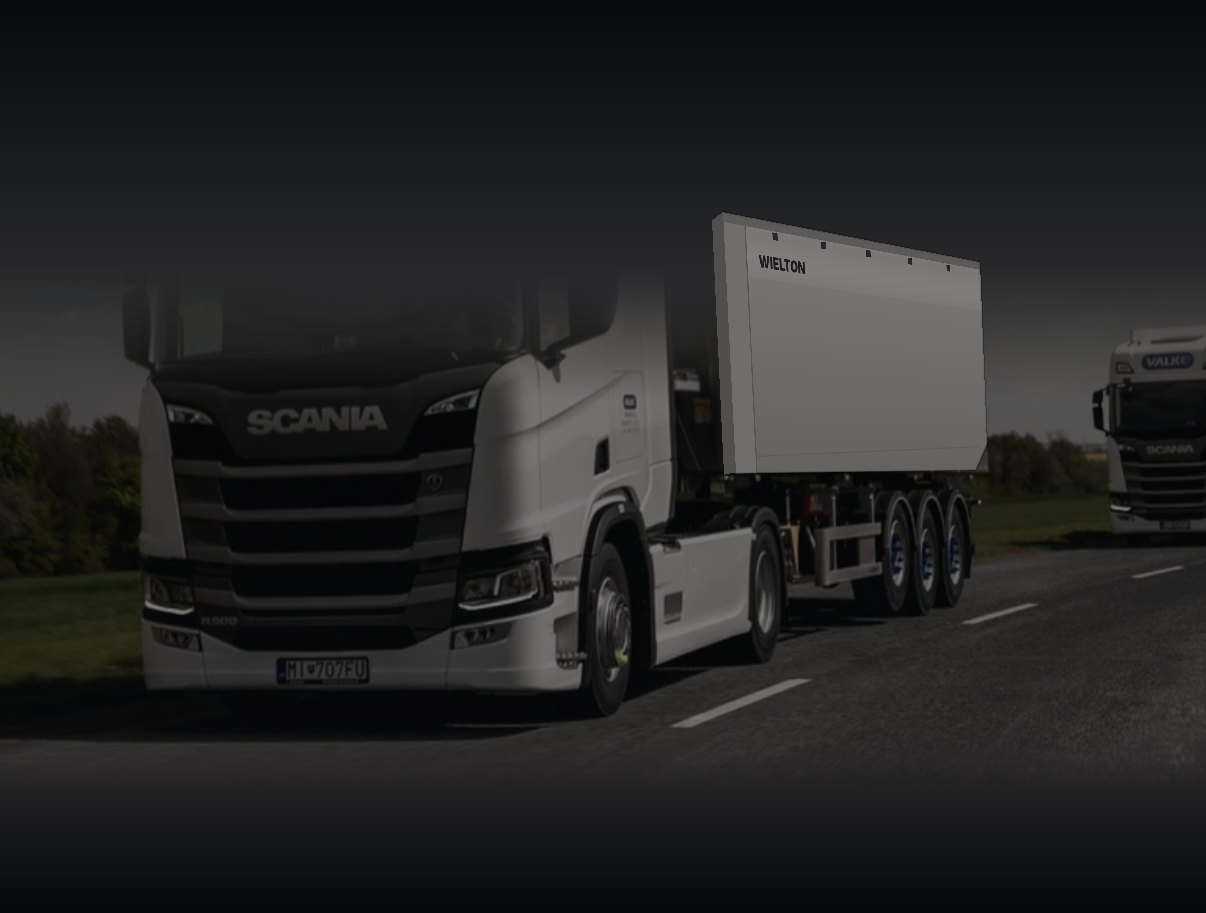
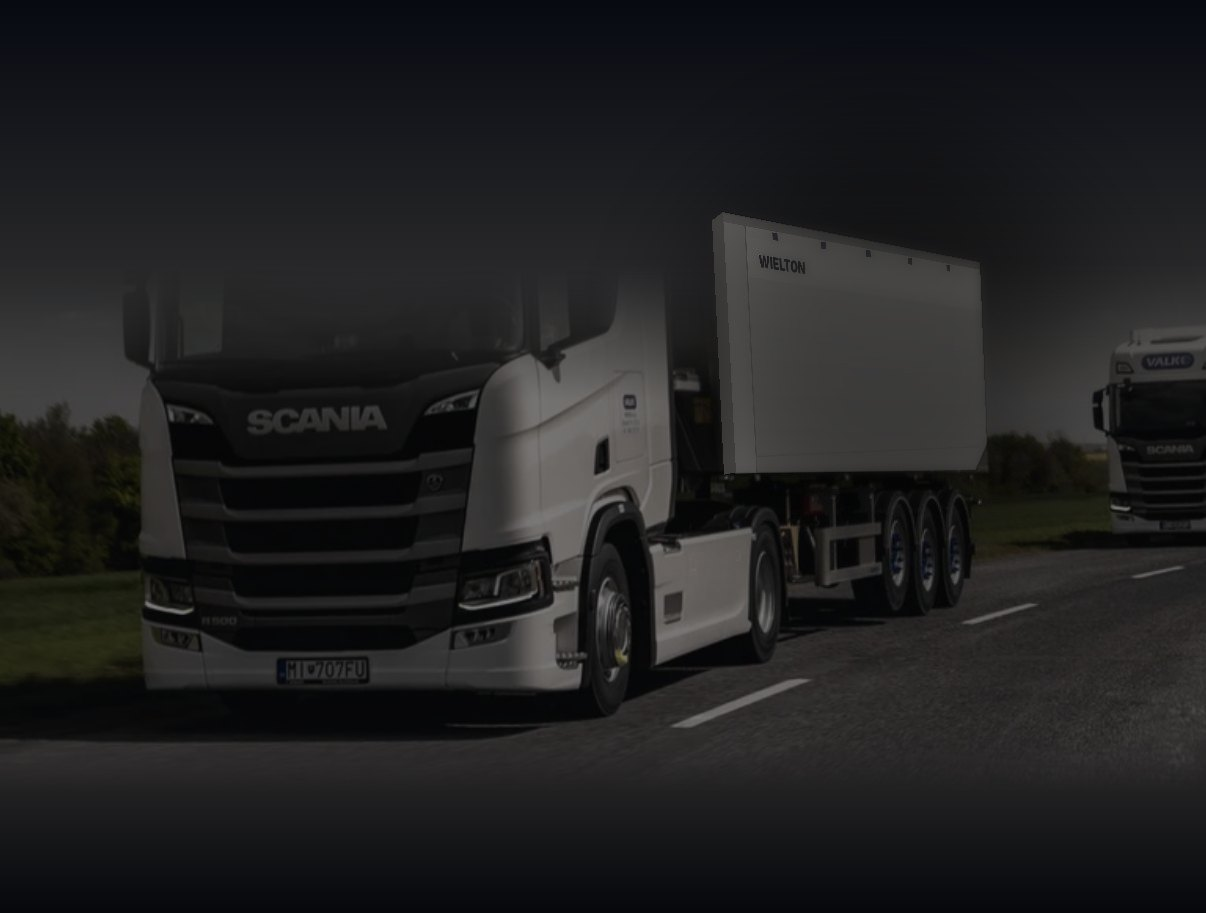
Úvod: dôraz na ťahače, náves potlačený
Claude-Session: https://claude.ai/code/session_01T1wT3WgQko2kKtKKfE1S8B

Changed region(s): [[0.5829, 0.2147, 0.8897, 0.5214]]

diff --git a/farmar/index.html b/farmar/index.html
@@ -197,7 +197,7 @@ details.trips{border-top:1px solid var(--line);padding-top:8px}details.trips sum
 .xdh{display:grid;grid-template-columns:44px 1fr;gap:12px;align-items:center}.xdn{display:grid;min-width:0}.xdn b{font:600 .98rem var(--f-head)}.xdn small{font-size:.76rem;color:var(--muted)}
 .live{display:inline-block;width:8px;height:8px;border-radius:50%;background:#b6ff3b;box-shadow:0 0 10px #b6ff3b;margin-right:6px;animation:pulse 1.6s infinite}@keyframes pulse{50%{opacity:.35}}
 .xset summary{list-style:none;cursor:pointer;display:flex;gap:10px;align-items:center}.xset summary::-webkit-details-marker{display:none}.xset summary span{width:36px;height:36px;border-radius:12px;display:grid;place-items:center;background:rgba(255,255,255,.07)}
-.vhero{position:relative;overflow:hidden;isolation:isolate;border-radius:30px;min-height:330px;display:grid;align-items:end;background:var(--bg) 58% 38%/cover no-repeat,#05070a;border:1px solid rgba(255,255,255,.14);box-shadow:0 30px 80px rgba(0,0,0,.6)}
+.vhero{position:relative;overflow:hidden;isolation:isolate;border-radius:30px;min-height:330px;display:grid;align-items:end;background:var(--bg) 24% 42%/cover no-repeat,#05070a;border:1px solid rgba(255,255,255,.14);box-shadow:0 30px 80px rgba(0,0,0,.6)}
 .vhero::before{content:"";position:absolute;inset:0;background:linear-gradient(180deg,rgba(5,7,10,.35) 0%,rgba(5,7,10,.05) 22%,rgba(5,7,10,.15) 45%,rgba(5,7,10,.78) 70%,rgba(5,7,10,.94) 100%),radial-gradient(80% 60% at 0% 100%,rgba(182,255,59,.28),transparent 60%),radial-gradient(70% 60% at 100% 0%,rgba(124,92,255,.35),transparent 60%)}
 .vhin{position:relative;padding:22px 20px 18px;display:grid;gap:10px}
 .vbrand{display:flex;align-items:center;gap:10px;font:700 .72rem var(--f-head);letter-spacing:.32em}.vbrand i{width:6px;height:6px;border-radius:50%;background:#b6ff3b;box-shadow:0 0 12px #b6ff3b}
